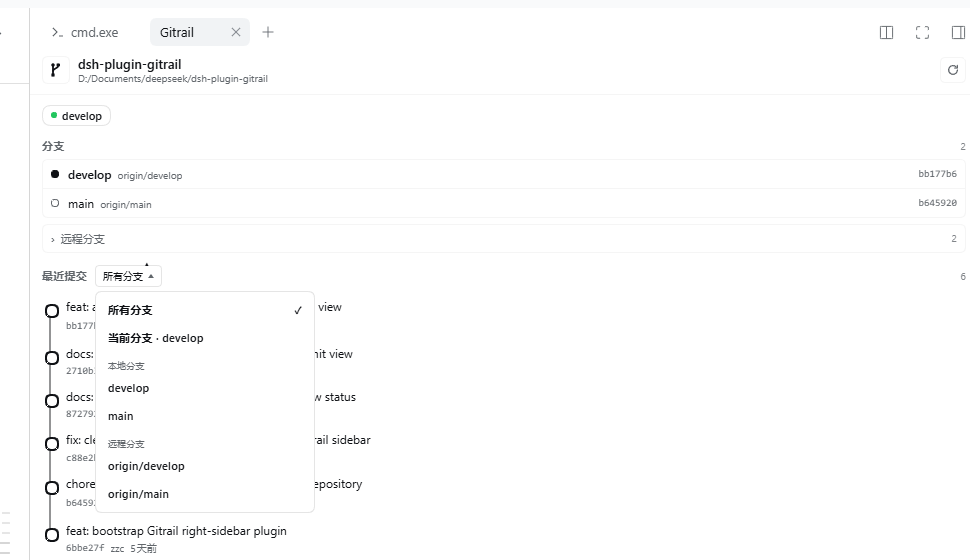
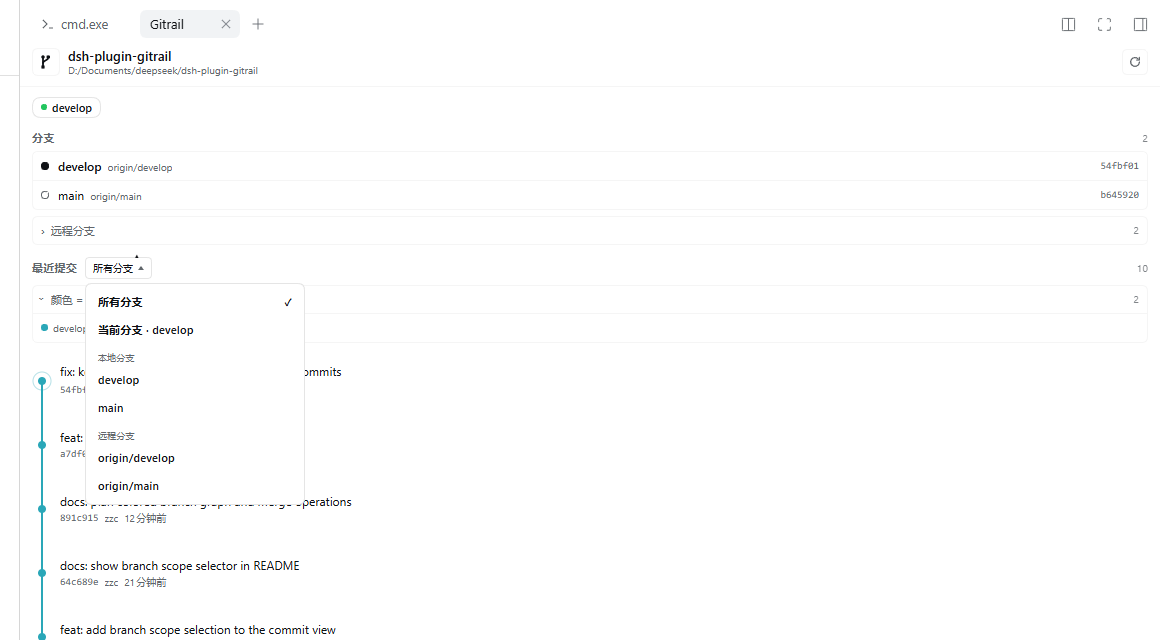
docs: update colored graph screenshots and notes

diff --git a/AGENTS.md b/AGENTS.md
@@ -8,7 +8,7 @@
 2. **client 模块 id = 包名 = patch 行 name**。三者是 `dsh-plugin-gitrail`，改一个就要改全部。
 3. **浏览器不碰文件系统**。只允许 `session` id；路径由 Host 从 Session 解析。
 4. **git 只读 + 参数数组**。不要加 shell 字符串、不要加写命令，除非任务明确要求并更新路线图。
-5. **主题只用 `--dsw-alias-*` 令牌**。不要写死颜色；不要读取其他插件的 DOM 或样式。
+5. **主题只用 `--dsw-alias-*` 令牌**。不要写死颜色；不要读取其他插件的 DOM 或样式。唯一例外是提交图 lane 的分类色板 `--gr-lane-1..8`（数据可视化需要多色，必须亮/暗都校验），其余 UI 仍用主题令牌。
 6. **文案走 `ctx.locale`**。新增可见文本时同时补 `zh` 和 `en` 字典。
 7. **注册即 effect**。`ctx.sidebarRightTabs.register`、`ctx.slots.register`、`webServer.register` 都包在 `ctx.effect()` 里并返回 disposer。
 
@@ -16,7 +16,7 @@
 
 ```powershell
 npm run check   # node --check + 清单/本地化/图标
-npm test        # 解析器 + 临时仓库集成测试
+npm test        # 30 项：解析器、路由、范围、图形布局与临时仓库
 ```
 
 - 视觉验证只能在安装后的 DSH 页面里做；不要写 mock 页面、截图脚本或自定义渲染器来「证明」UI。
@@ -32,6 +32,7 @@ npm test        # 解析器 + 临时仓库集成测试
 | `client.js` | tab type + guide + body + CSS + 本地化字典 |
 | `test/git.test.mjs` | 解析器单测与真实仓库集成测试 |
 | `test/host.test.mjs` | 路由、loopback、Session 解析与错误码测试 |
+| `test/graph.test.mjs` | 纯函数 `layoutGraph` 的线性/分叉/合并/远程/dangling 测试 |
 | `test-support/git.mjs` | 测试用临时仓库工具 |
 | `scripts/check.mjs` | 清单与模块格式检查 |
 | `docs/` | 架构、路线图、命名决策 |

diff --git a/docs/architecture.md b/docs/architecture.md
@@ -168,6 +168,7 @@ locale/{en,zh}.json       Plugin Manager 元数据
 icon.svg                  插件图标
 test/git.test.mjs         解析器 + 临时仓库集成测试
 test/host.test.mjs        路由 / loopback / Session 解析 / 错误码测试
+test/graph.test.mjs       纯函数 layoutGraph 的图形测试
 test-support/git.mjs      临时仓库测试工具
 scripts/check.mjs         清单 / 模块格式 / 本地化 / 图标一致性
 docs/                     架构、路线图、命名

diff --git a/README.md b/README.md
@@ -11,7 +11,7 @@
 
 ![Gitrail 右侧栏](docs/assets/gitrail-sidebar.png)
 
-*右侧栏中的 Gitrail（默认显示所有分支）。*
+*右侧栏中的 Gitrail（默认显示所有分支，彩色 lane + 可折叠的「颜色 = 分支」图例）。*
 
 ![Gitrail 提交范围下拉](docs/assets/gitrail-scope-menu.png)
 
